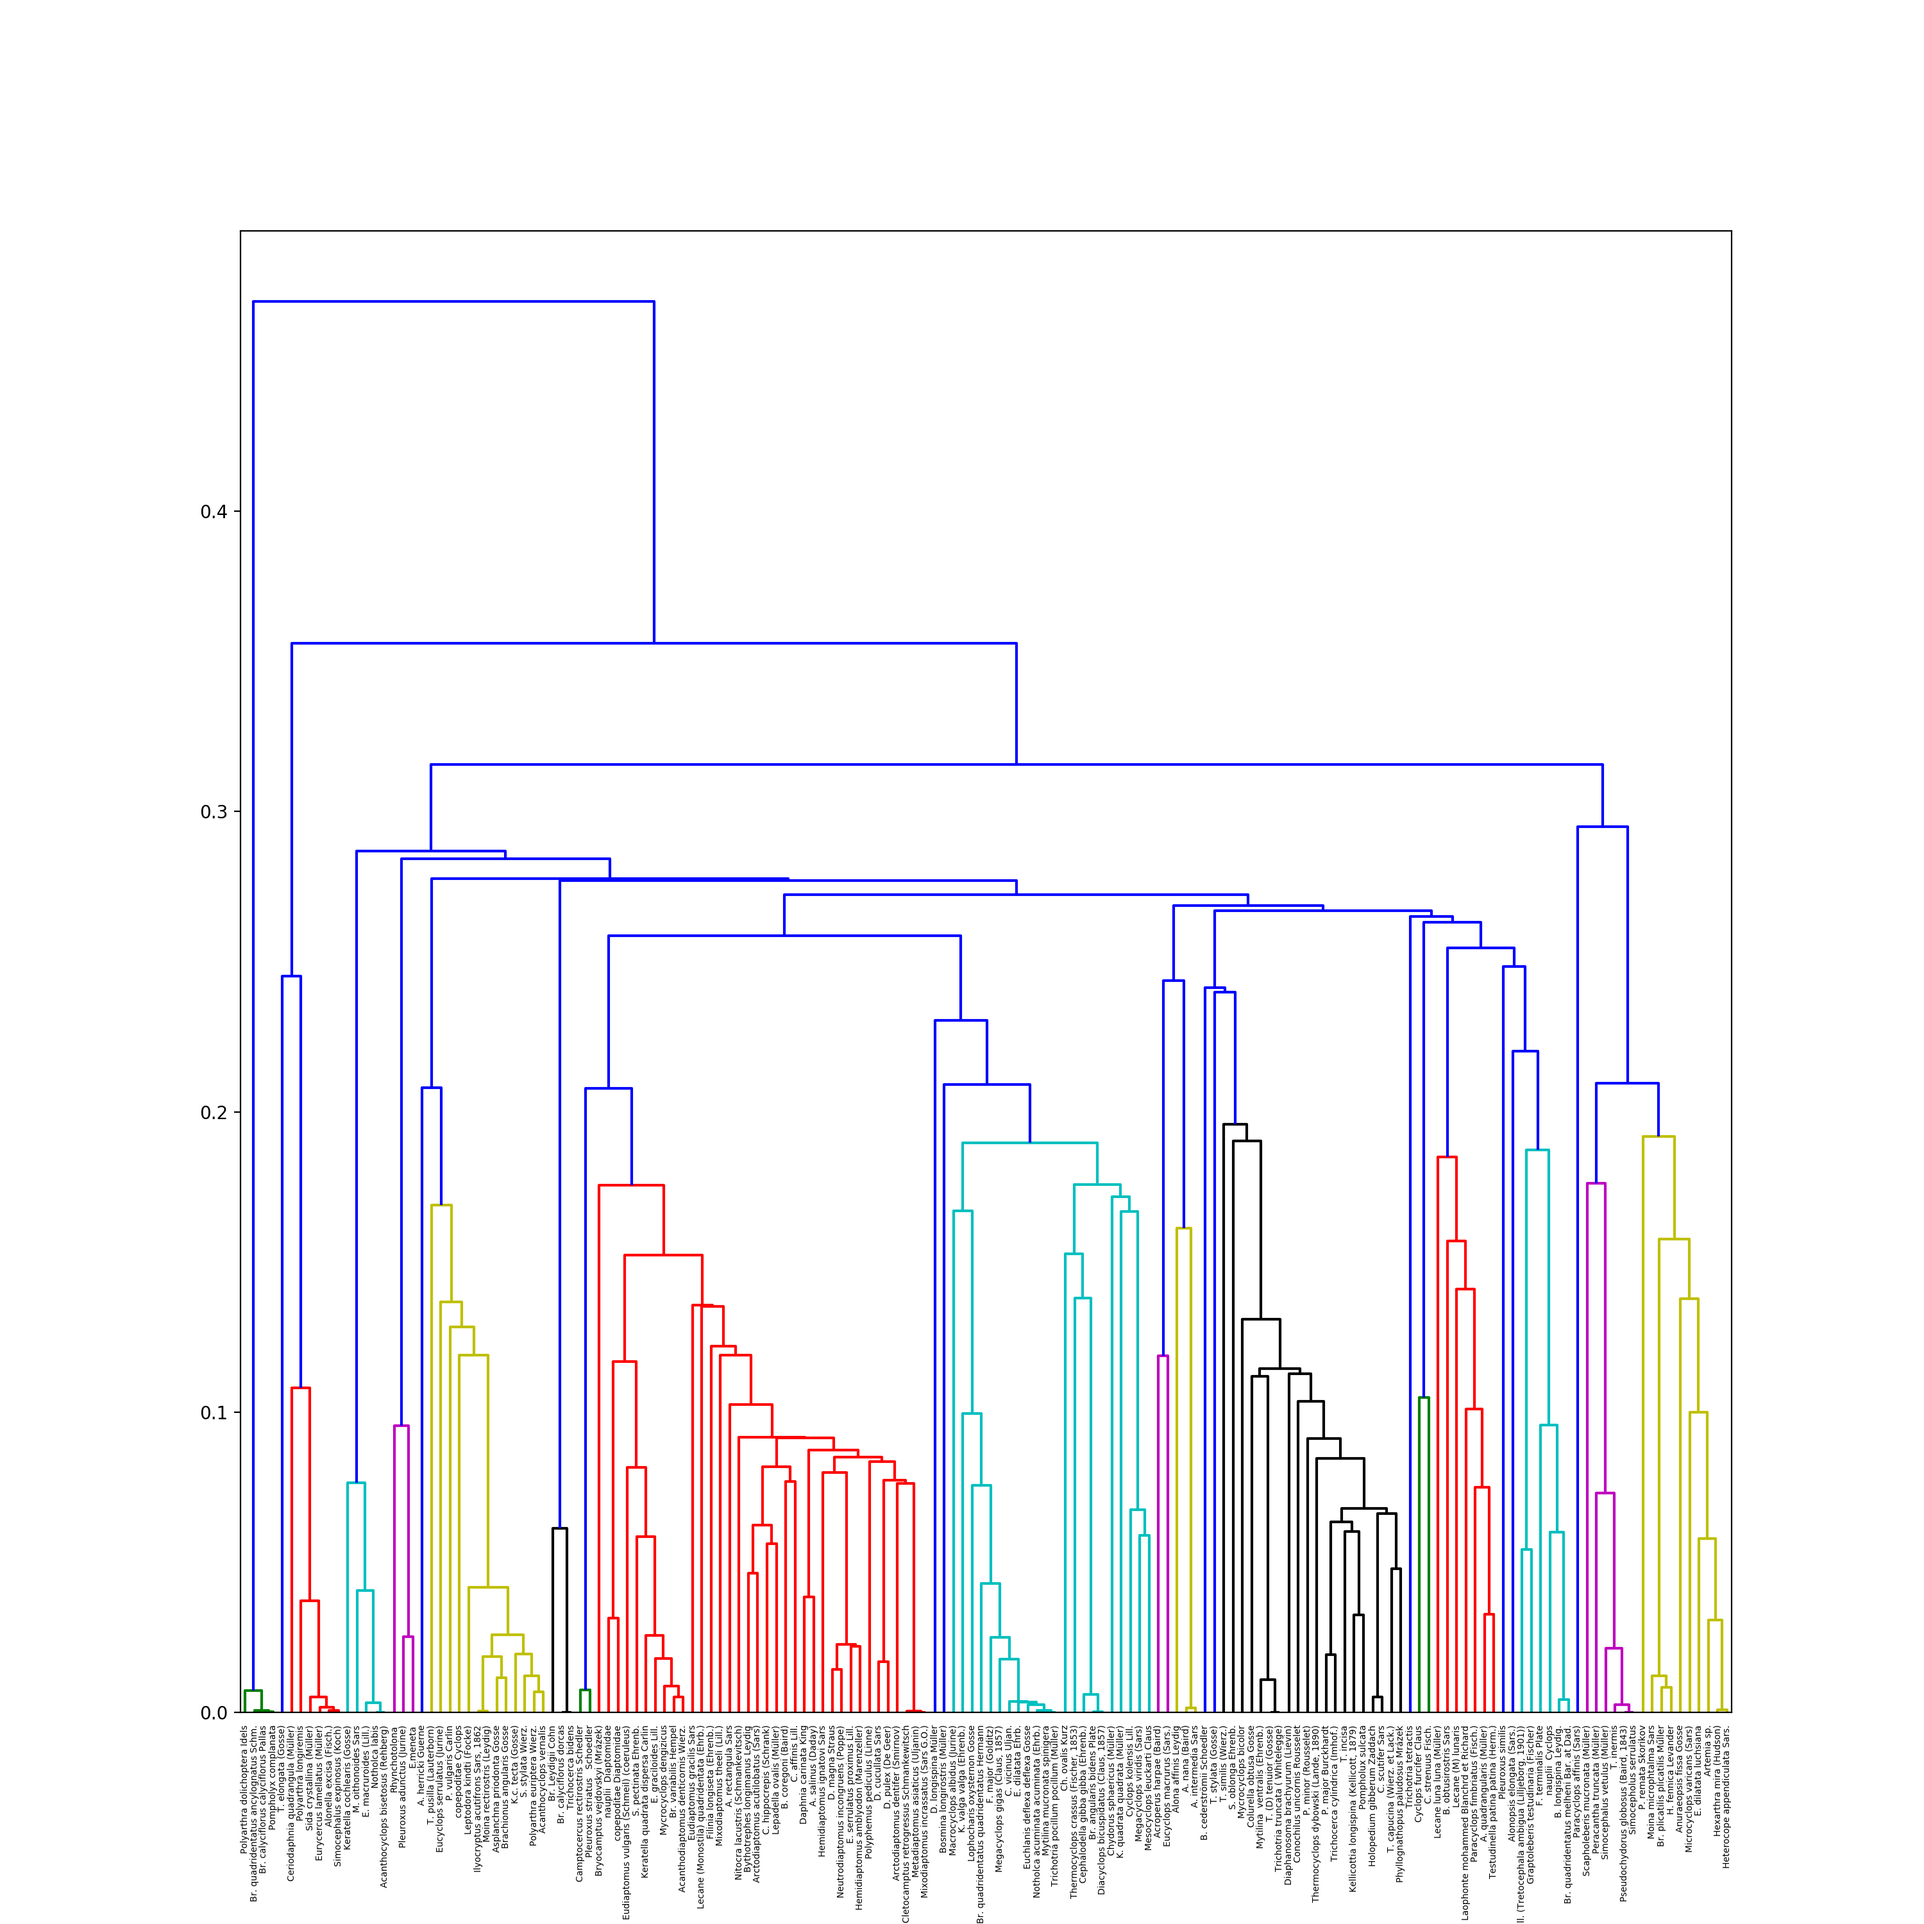
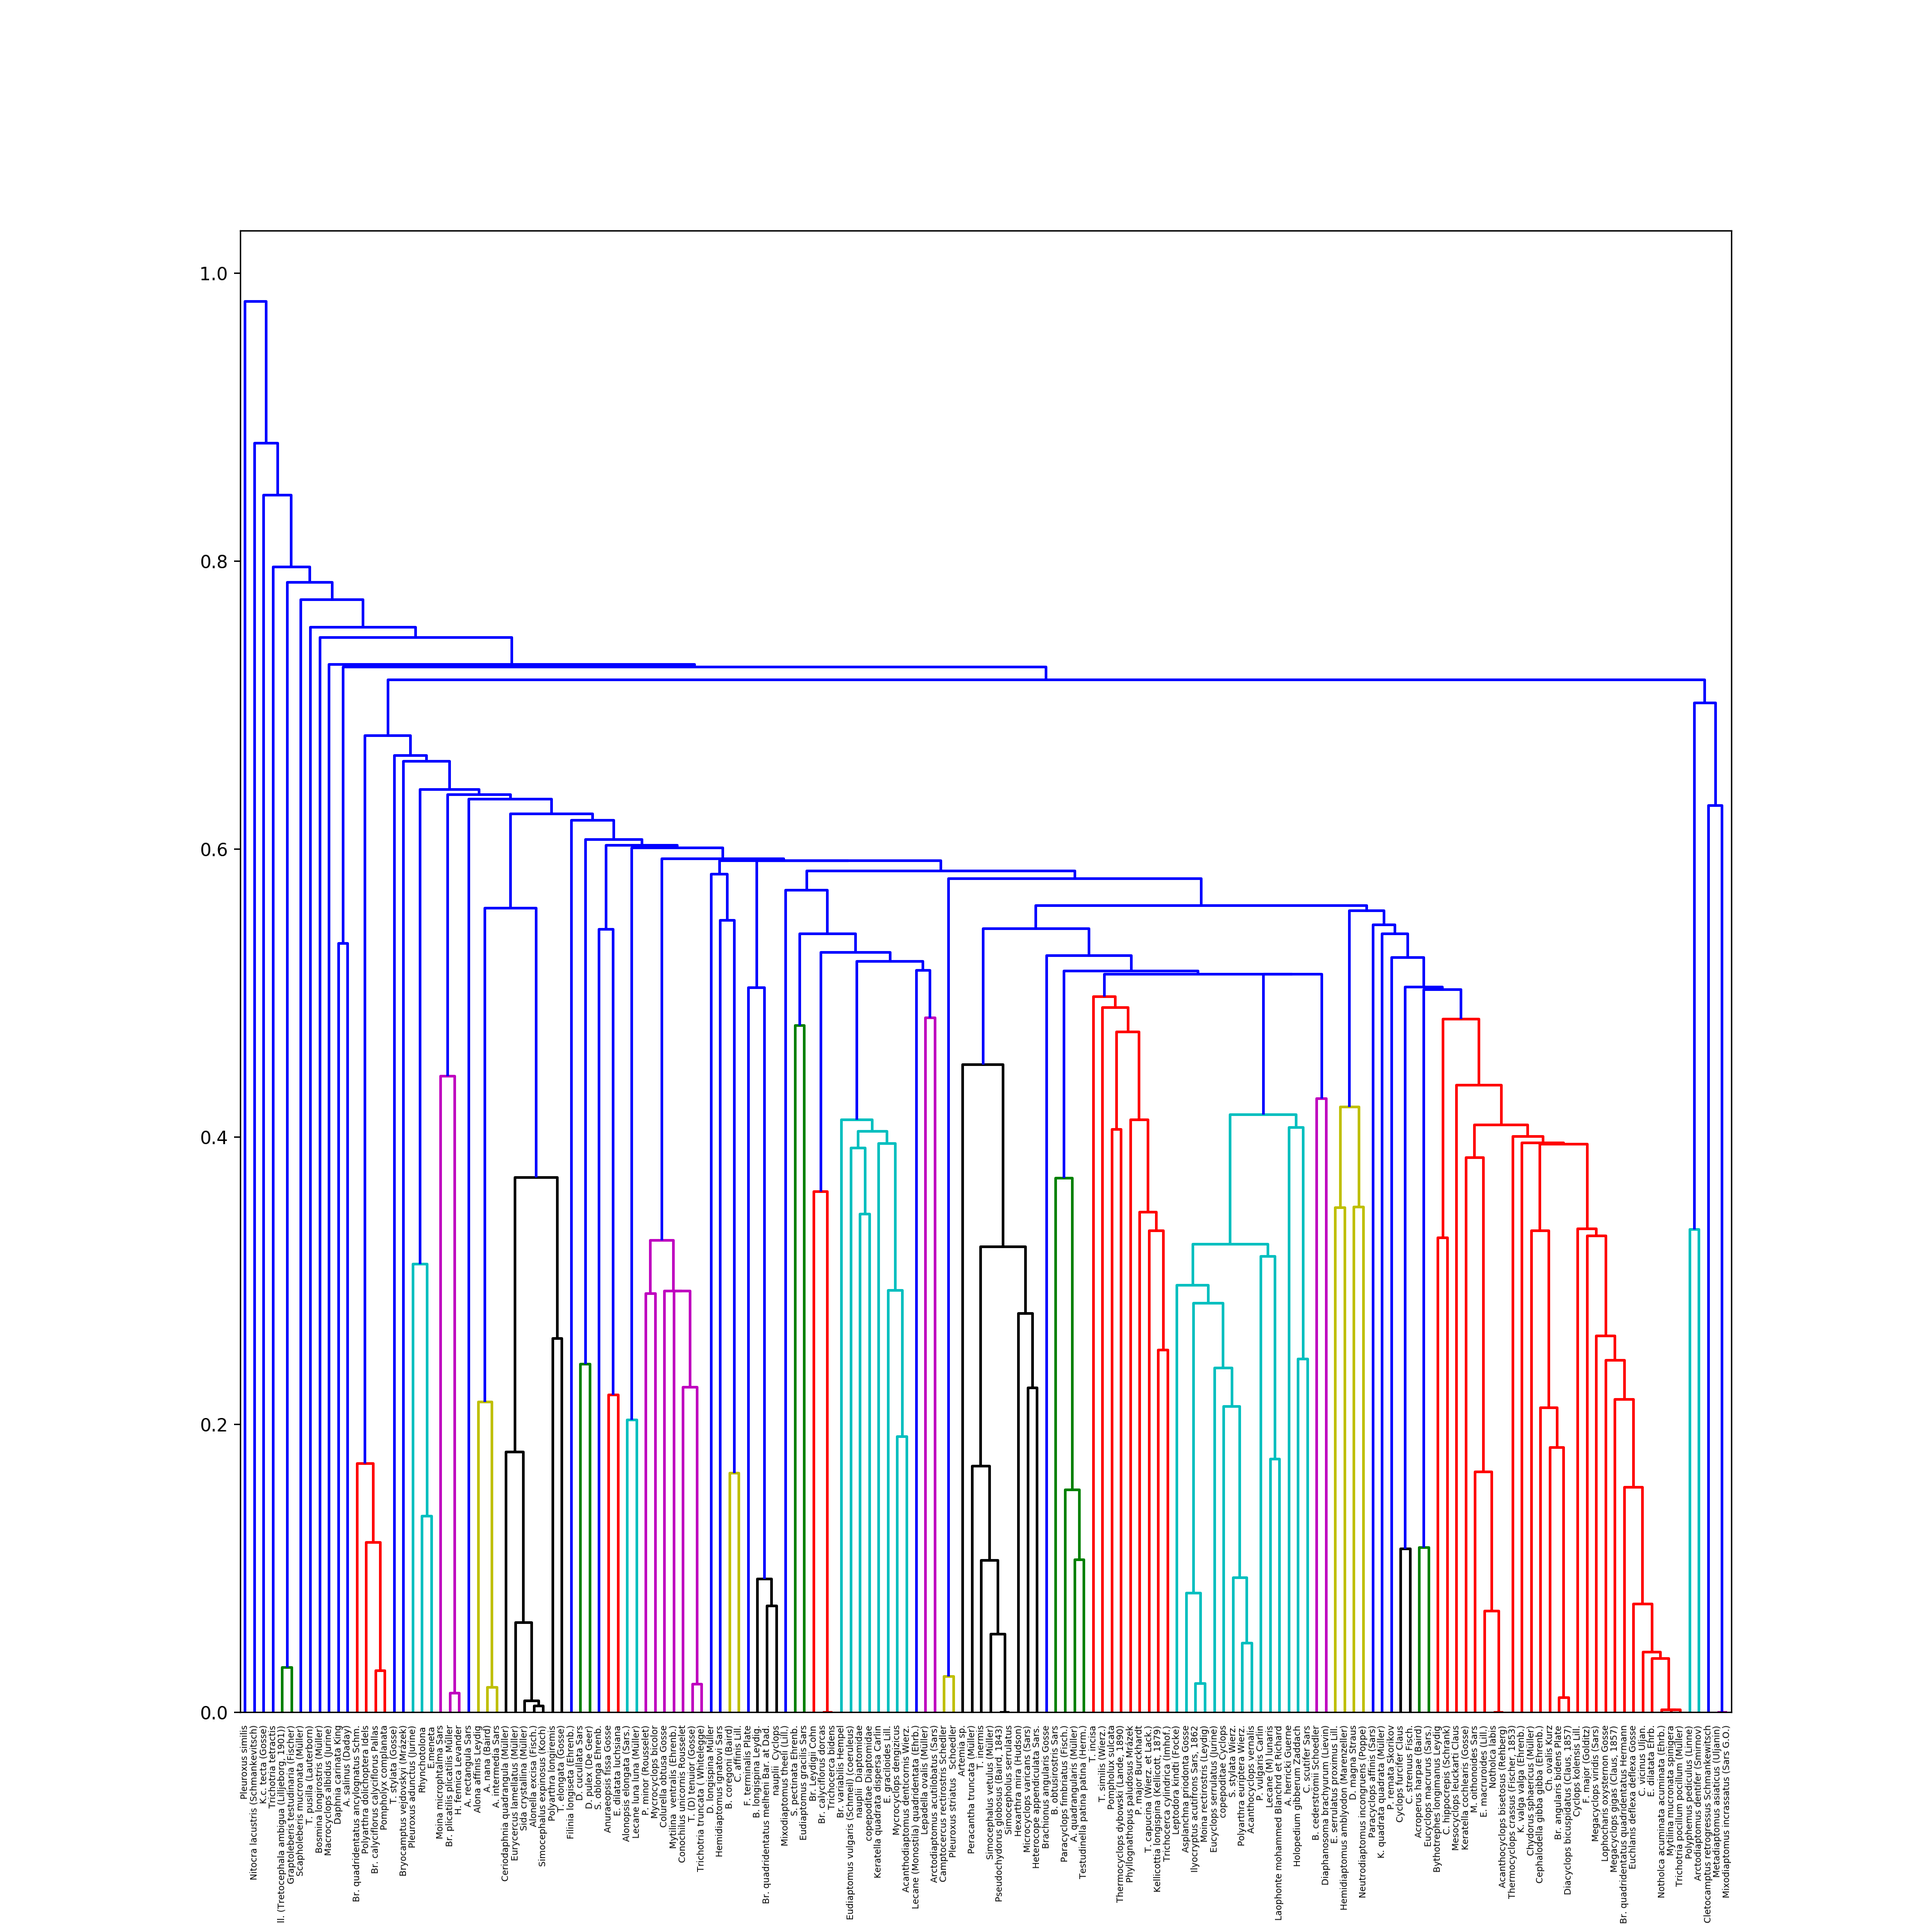
отрисовка и поиск отдельно для Dentogram

Changed region(s): [[0.124, 0.155, 0.899, 0.992], [0.527, 0.341, 0.558, 0.372]]

diff --git a/analysis/templates/analysis/Clustering.html b/analysis/templates/analysis/Clustering.html
@@ -5,8 +5,9 @@
         <div class="col-md-6 order-md-1">
             <div class="col-md-12 order-md-1">
                 <br>
+                <a href="{% url 'photoClustrering' %}" target="_blank"><img src="{% url 'photoClustrering' %}" style='width: 100%; ' ></a>
                 {% load staticfiles %}
-                <a href="{% static 'analysis/image/Clustering.png' %}" target="_blank"><img src="{% static 'analysis/image/Clustering.png' %}" style='width: 100%; ' ></a>
+{#                <a href="{% static 'analysis/image/Clustering.png' %}" target="_blank"><img src="{% static 'analysis/image/Clustering.png' %}" style='width: 100%; ' ></a>#}
             </div>
         </div>
 

diff --git a/analysis/templates/analysis/LSA.html b/analysis/templates/analysis/LSA.html
@@ -5,8 +5,9 @@
         <div class="col-md-6 order-md-1">
             <div class="col-md-12 order-md-1">
                 <br>
+                <a href="{% url 'photoLSA' %}" target="_blank"><img src="{% url 'photoLSA' %}" style='width: 100%; ' ></a>
                 {% load staticfiles %}
-                <a href="{% static 'analysis/image/LSA.png' %}" target="_blank"><img src="{% static 'analysis/image/LSA.png' %}" style='width: 100%; ' ></a>
+{#                <a href="{% static 'analysis/image/LSA.png' %}" target="_blank"><img src="{% static 'analysis/image/LSA.png' %}" style='width: 100%; ' ></a>#}
             </div>
         </div>
 

diff --git a/analysis/static/analysis/pythonCode/Dentogram.py b/analysis/static/analysis/pythonCode/Dentogram.py
@@ -1,11 +1,16 @@
 from analysis.static.analysis.pythonCode import Include
+from django.conf import settings
 
 class Dentogram(object):
     def __init__(self):
-        self.data = []
+        self.data = Include.np.asarray([])
+        self.buffer = []
+        self.index = 0
+        self.col = Include.np.asarray([])
 
     def dentogram(self, measurement):
         if len(self.data) == 0:
+        # if self.data.size == 0:
             self.data = self._toDo(measurement)
         return self.data
 
@@ -15,8 +20,8 @@ class Dentogram(object):
     def _ClusteringMetod(self, measurement, index, col):
         distance_mat = Include.distance.pdist(measurement, 'cosine')
         Z = Include.hierarchy.linkage(distance_mat, 'single')
-        Include.plt.figure(figsize=(15, 15), dpi=200)
-        dn = Include.hierarchy.dendrogram(Z, labels=col, color_threshold=index)
+        # Include.plt.figure(figsize=(15, 15), dpi=200)
+        # dn = Include.hierarchy.dendrogram(Z, labels=col, color_threshold=index)
         return Z
 
     otvet = []
@@ -65,3 +70,15 @@ class Dentogram(object):
         otvet.append(st)
         self._Bypass(clustering, int(str['id']) + size, size, col)
 
+    def getPhoto(self):
+        if self.buffer == []:
+            self.draw()
+        return self.buffer
+
+    def draw(self):
+        Include.plt.figure(figsize=(15, 15), dpi=200)
+        dn = Include.hierarchy.dendrogram(self.data, labels=self.col, color_threshold=self.index)
+
+        Include.plt.savefig(str(settings.STATIC_ROOT_A) + "/analysis/image/test.png")
+        self.buffer = Include.io.BytesIO()
+        Include.plt.savefig(self.buffer, format='png')

diff --git a/analysis/static/analysis/pythonCode/DentogramLSA.py b/analysis/static/analysis/pythonCode/DentogramLSA.py
@@ -6,16 +6,17 @@ class DentogramLSA(Dentogram.Dentogram):
         super().__init__()
 
     def _toDo(self, measurement):
-        col = measurement.columns
+        self.index = 0.2
+        self.col = measurement.columns
         measurement = measurement.T
         measurement = Include.preprocessing.normalize(measurement)
         U, S, Vt = Include.np.linalg.svd(measurement)
-        k = int((col.size * 10)/100)
+        k = int((self.col.size * 10)/100)
         U = U[:,0:k]
         S = S[0:k]
         Vt = Vt[0:k, :]
         U_S = Include.np.multiply(S, U)
         A_ = Include.np.dot(U_S, Vt)
-        cl = self._ClusteringMetod(A_, 0.2, col)
-        Include.plt.savefig(str(settings.STATIC_ROOT_A) + "/analysis/image/LSA.png")
+        cl = self._ClusteringMetod(A_, 0.2, self.col)
+        # Include.plt.savefig(str(settings.STATIC_ROOT_A) + "/analysis/image/LSA.png")
         return cl

diff --git a/analysis/static/analysis/pythonCode/DentogramClustering.py b/analysis/static/analysis/pythonCode/DentogramClustering.py
@@ -6,10 +6,11 @@ class DentogramClustering(Dentogram.Dentogram):
         super().__init__()
 
     def _toDo(self, measurement):
-        col = measurement.columns
+        self.index = 0.5
+        self.col = measurement.columns
         measurement = measurement.T
         measurementN = Include.preprocessing.normalize(measurement)
-        Z = self._ClusteringMetod(measurementN, 0.5, col)
-        Include.plt.savefig(str(settings.STATIC_ROOT_A) + "/analysis/image/Clustering.png")
+        Z = self._ClusteringMetod(measurementN, 0.5, self.col)
+        # Include.plt.savefig(str(settings.STATIC_ROOT_A) + "/analysis/image/Clustering.png")
         return Z
 

diff --git a/analysis/urls.py b/analysis/urls.py
@@ -11,7 +11,10 @@ urlpatterns = [
     path('Clustering', views.ClusteringStr, name='Clustering'),
     path('LSA', views.LSAstr, name='LSA'),
     path('CorrelationChemistry.png', views.photoCorrelationChemistry, name='photoCorrelationChemistry'),
-    path('CorrelationZooplankton.png', views.photoCorrelationZooplankton, name='photoCorrelationZooplankton')
+    path('CorrelationZooplankton.png', views.photoCorrelationZooplankton, name='photoCorrelationZooplankton'),
+    path('Clustrering.png', views.photoClustrering, name='photoClustrering'),
+    path('LSA.png', views.photoLSA, name='photoLSA')
+
 ]
 
 if settings.DEBUG:

diff --git a/analysis/views.py b/analysis/views.py
@@ -89,3 +89,15 @@ def photoCorrelationZooplankton(request):
     buffer = data.drawCorrelation(1)
     response = HttpResponse(buffer.getvalue(), content_type='image/png')
     return response
+
+def photoClustrering(request):
+    data = Data.Data()
+    buffer = data.drawDentogram(0)
+    response = HttpResponse(buffer.getvalue(), content_type='image/png')
+    return response
+
+def photoLSA(request):
+    data = Data.Data()
+    buffer = data.drawDentogram(1)
+    response = HttpResponse(buffer.getvalue(), content_type='image/png')
+    return response

diff --git a/analysis/static/analysis/pythonCode/Correlation.py b/analysis/static/analysis/pythonCode/Correlation.py
@@ -1,5 +1,4 @@
 from analysis.static.analysis.pythonCode import Include
-import io
 
 class Correlation(object):
     def __init__(self):
@@ -27,5 +26,5 @@ class Correlation(object):
         mapPalette = Include.sns.diverging_palette(10, 240, sep=10, as_cmap=True)
         Include.plt.figure(figsize=(15, 15), dpi=200)
         Include.sns.heatmap(self.data, cmap=mapPalette, vmin=-1, vmax=1)
-        self.buffer = io.BytesIO()
+        self.buffer = Include.io.BytesIO()
         Include.plt.savefig(self.buffer, format='png')

diff --git a/analysis/static/analysis/pythonCode/Data.py b/analysis/static/analysis/pythonCode/Data.py
@@ -139,3 +139,9 @@ class Data(object):
         else:
             return self.correlationZooplanktonData.getPhoto()
 
+    def drawDentogram(self, fl):
+        if fl == 0:
+            return self.clusteringData.getPhoto()
+        else:
+            return self.lsaData.getPhoto()
+

diff --git a/analysis/static/analysis/pythonCode/Include.py b/analysis/static/analysis/pythonCode/Include.py
@@ -9,3 +9,4 @@ from scipy.spatial import distance
 from sklearn import preprocessing
 from scipy.cluster import hierarchy
 import os
+import io
